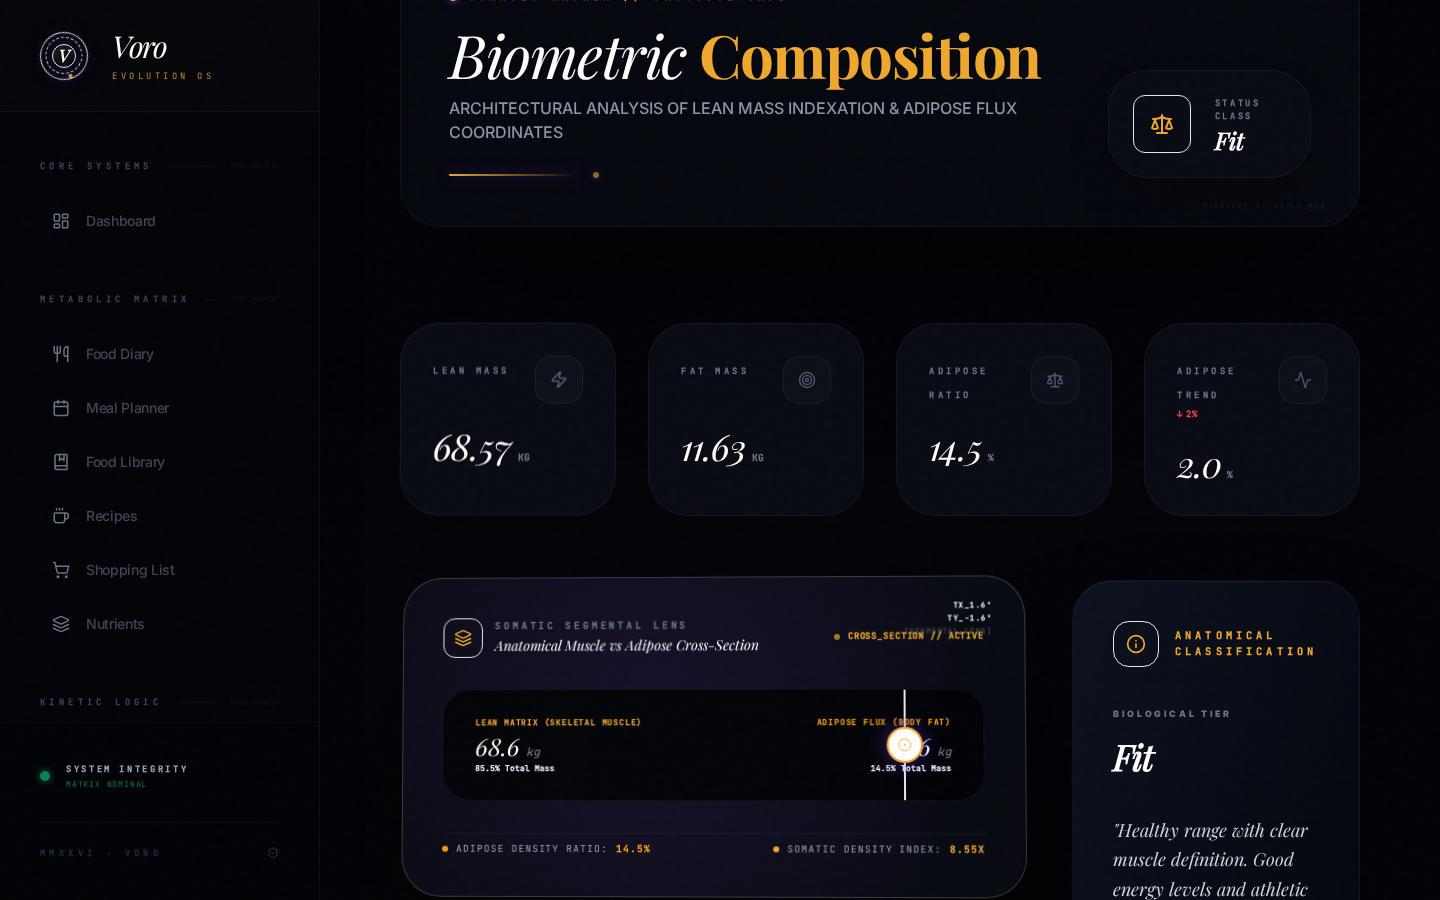
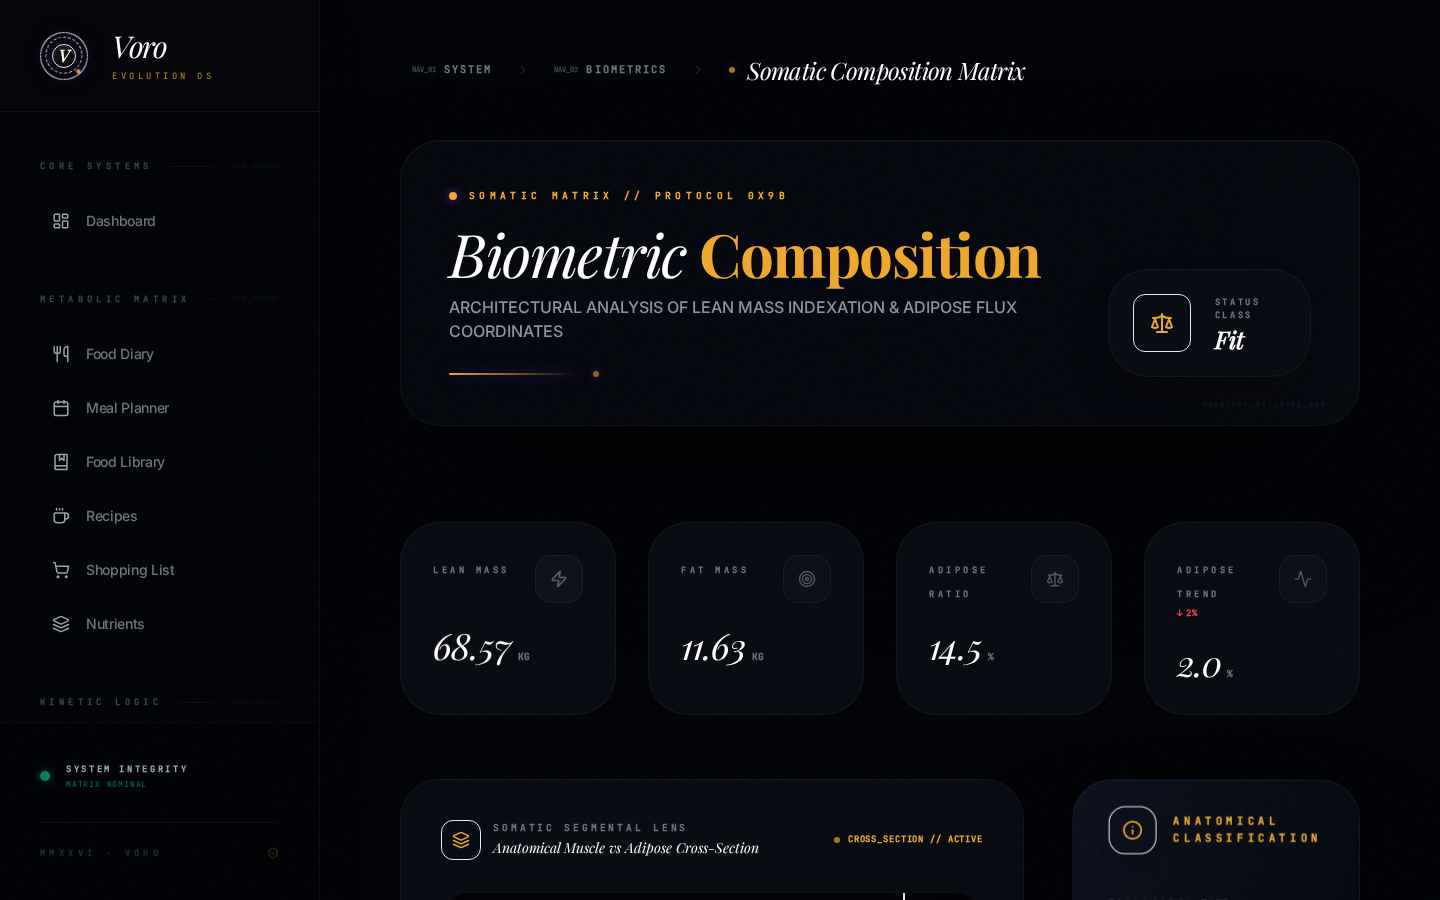
⚡ perf: Re-engineer BodyComposition for surgical reactivity & zero-allocation performance (#492)
Replaces broad useStorageKey subscription with useStorageKeySelector using module-scoped selectBodyMetrics to isolate re-renders strictly to body_metrics updates. Hoists and freezes static fallback datasets and configuration maps with Object.freeze() to eliminate heap allocations per render cycle. Optimizes compositionHistory date parsing.

diff --git a/webs/src/pages/BodyComposition.jsx b/webs/src/pages/BodyComposition.jsx
@@ -6,18 +6,35 @@ import AreaChartComponent from '@/components/AreaChartComponent';
 import Badge from '@/components/Badge';
 import Header from '@/components/Header';
 import Breadcrumb from '@/components/Breadcrumb';
-import { useStorageKey } from '@/hooks/useStorage';
+import { useStorageKeySelector } from '@/hooks/useStorage';
 import { useApp } from '@/hooks/useAppContext';
 import { bodyFatStandards, bodyFatLevelDescriptions, bodyFatHealthMetrics } from '@/data/bodyFatStandards';
 import { getFastShortDate } from '@/utils/formatters';
 
 /**
- * ⚡ PERFORMANCE OPTIMIZATION: Hoisted formatters.
- * Prevents redundant object instantiation of Intl.DateTimeFormat in loops.
+ * ⚡ PERFORMANCE OPTIMIZATION: Hoisted & Frozen Data Structures.
+ * Prevents redundant object/array allocations and GC pressure across render cycles.
  */
-const dateShortFormatter = new Intl.DateTimeFormat('en-US', {
-  month: 'short',
-  day: 'numeric'
+const EMPTY_ARRAY = Object.freeze([]);
+const EMPTY_METRICS = Object.freeze({
+  weights: EMPTY_ARRAY,
+  bodyFat: EMPTY_ARRAY
+});
+
+const selectBodyMetrics = (state) => state || EMPTY_METRICS;
+
+const LOADING_MESSAGES = Object.freeze([
+  "ESTABLISHING SOMATOTYPE PROTOCOL...",
+  "ALIGNING LEAN MASS VECTORS...",
+  "CALIBRATING ADIPOSE FLUX COORDINATES...",
+  "SYNAPTIK COMPILATION COMPLETE // READY"
+]);
+
+const COLOR_TOKEN_MAP = Object.freeze({
+  'voro-primary': 'var(--voro-primary, #7C3AED)',
+  'voro-secondary': 'var(--voro-secondary, #10B981)',
+  'voro-accent': 'var(--voro-accent, #F59E0B)',
+  'voro-danger': 'var(--voro-danger, #EF4444)'
 });
 
 /**
@@ -87,14 +104,7 @@ const SomaticSpecimenCell = memo(({ label, value, unit, change, icon: Icon, colo
 
   const interactionActive = isHovered || isFocused;
   const isPositive = change !== undefined && parseFloat(change) >= 0;
-
-  const colorTokenMap = {
-    'voro-primary': 'var(--voro-primary, #7C3AED)',
-    'voro-secondary': 'var(--voro-secondary, #10B981)',
-    'voro-accent': 'var(--voro-accent, #F59E0B)',
-    'voro-danger': 'var(--voro-danger, #EF4444)'
-  };
-  const activeColor = colorTokenMap[color] || 'var(--voro-primary, #7C3AED)';
+  const activeColor = COLOR_TOKEN_MAP[color] || COLOR_TOKEN_MAP['voro-primary'];
 
   return (
     <div
@@ -361,19 +371,13 @@ const SomaticSegmentalLens = memo(({ leanMass, fatMass, bodyFat }) => {
 SomaticSegmentalLens.displayName = "SomaticSegmentalLens";
 
 const BodyComposition = () => {
-  const metricsData = useStorageKey('body_metrics');
+  // ⚡ PERFORMANCE OPTIMIZATION: Surgical Reactivity via selector
+  const metrics = useStorageKeySelector('body_metrics', selectBodyMetrics);
   const { user } = useApp();
 
   // Simulated Masterclass Loading Alignment State
   const [loading, setLoading] = useState(() => !isTestBypass());
   const [loadingStep, setLoadingStep] = useState(0);
-
-  const loadingMessages = useMemo(() => [
-    "ESTABLISHING SOMATOTYPE PROTOCOL...",
-    "ALIGNING LEAN MASS VECTORS...",
-    "CALIBRATING ADIPOSE FLUX COORDINATES...",
-    "SYNAPTIK COMPILATION COMPLETE // READY"
-  ], []);
 
   useEffect(() => {
     document.title = 'VORO | Somatic Matrix & Body Composition';
@@ -388,7 +392,7 @@ const BodyComposition = () => {
     let finishTimer;
 
     const cycleSteps = (idx) => {
-      if (idx < loadingMessages.length) {
+      if (idx < LOADING_MESSAGES.length) {
         setLoadingStep(idx);
         stepTimer = setTimeout(() => cycleSteps(idx + 1), 600);
       }
@@ -404,17 +408,10 @@ const BodyComposition = () => {
       clearTimeout(stepTimer);
       clearTimeout(finishTimer);
     };
-  }, [loadingMessages]);
-
-  /**
-   * ⚡ OPTIMIZATION: Synchronous data derivation using useMemo.
-   */
-  const metrics = useMemo(() => {
-    return metricsData || { weights: [], bodyFat: [] };
-  }, [metricsData]);
+  }, []);
 
   const compositionHistory = useMemo(() => {
-    if (!metrics.weights?.length || !metrics.bodyFat?.length) return [];
+    if (!metrics.weights?.length || !metrics.bodyFat?.length) return EMPTY_ARRAY;
 
     /**
      * ⚡ OPTIMIZATION: Single-pass O(N+M) alignment for merging biometric time-series.
@@ -427,10 +424,7 @@ const BodyComposition = () => {
         return dA < dB ? -1 : dA > dB ? 1 : 0;
       })
       .slice(-30)
-      .map(w => {
-        const date = new Date(w.date);
-        return { ...w, ts: date.getTime(), dateObj: date };
-      });
+      .map(w => ({ ...w, ts: new Date(w.date).getTime() }));
 
     const bodyFat = [...metrics.bodyFat]
       .sort((a, b) => {
@@ -534,7 +528,7 @@ const BodyComposition = () => {
               Somatic Alignment Sequence
             </h3>
             <div className="font-mono text-[0.6rem] text-voro-primary font-bold tracking-[0.25em] space-y-1">
-              {loadingMessages.slice(0, loadingStep + 1).map((log, i) => (
+              {LOADING_MESSAGES.slice(0, loadingStep + 1).map((log, i) => (
                 <p key={i} className="animate-fade-in opacity-80">
                   {log}
                 </p>
